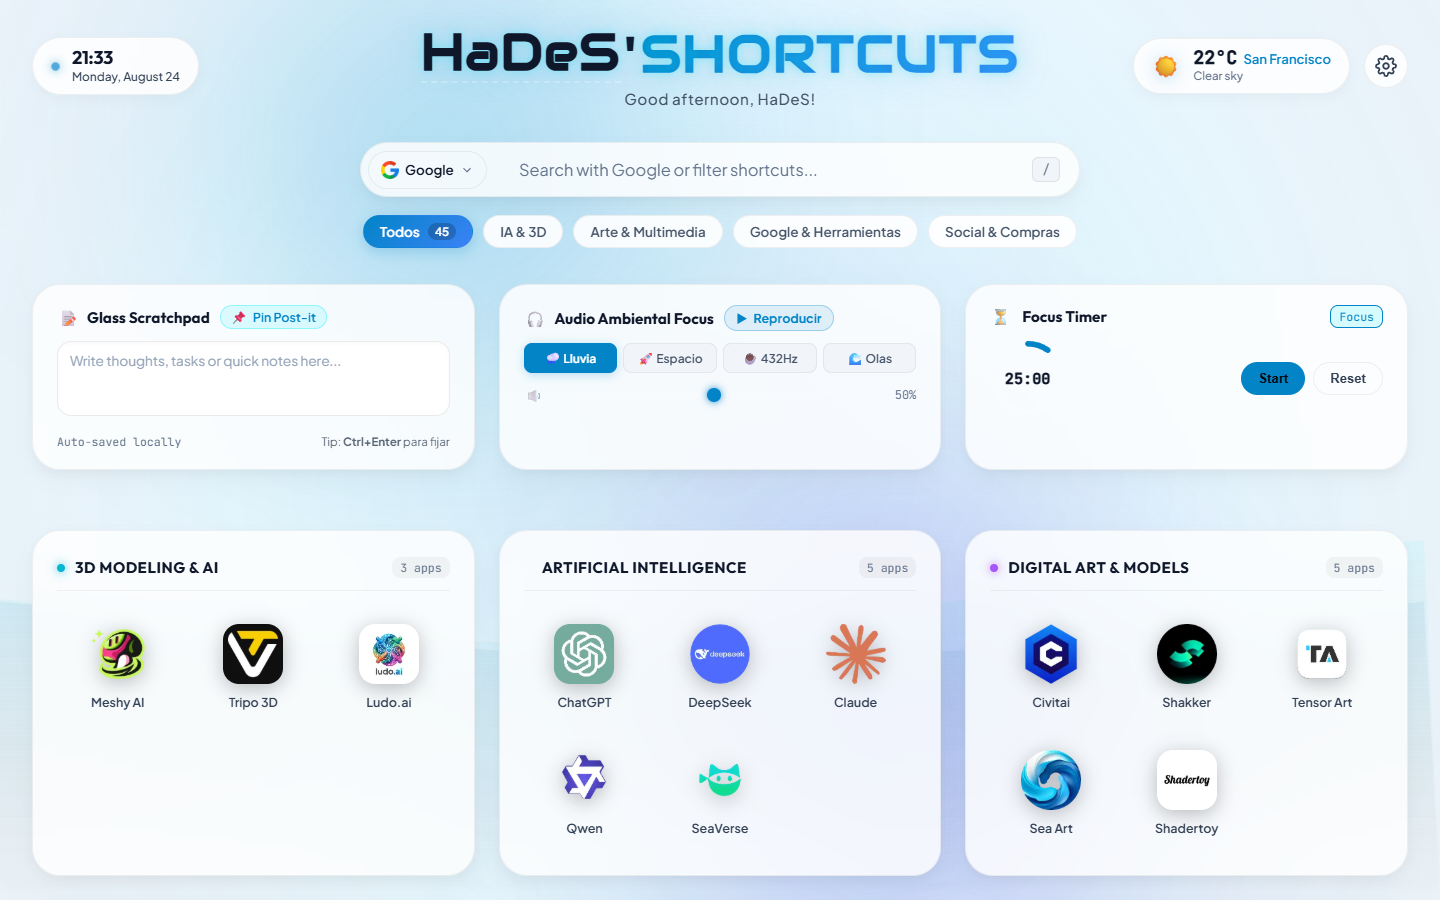
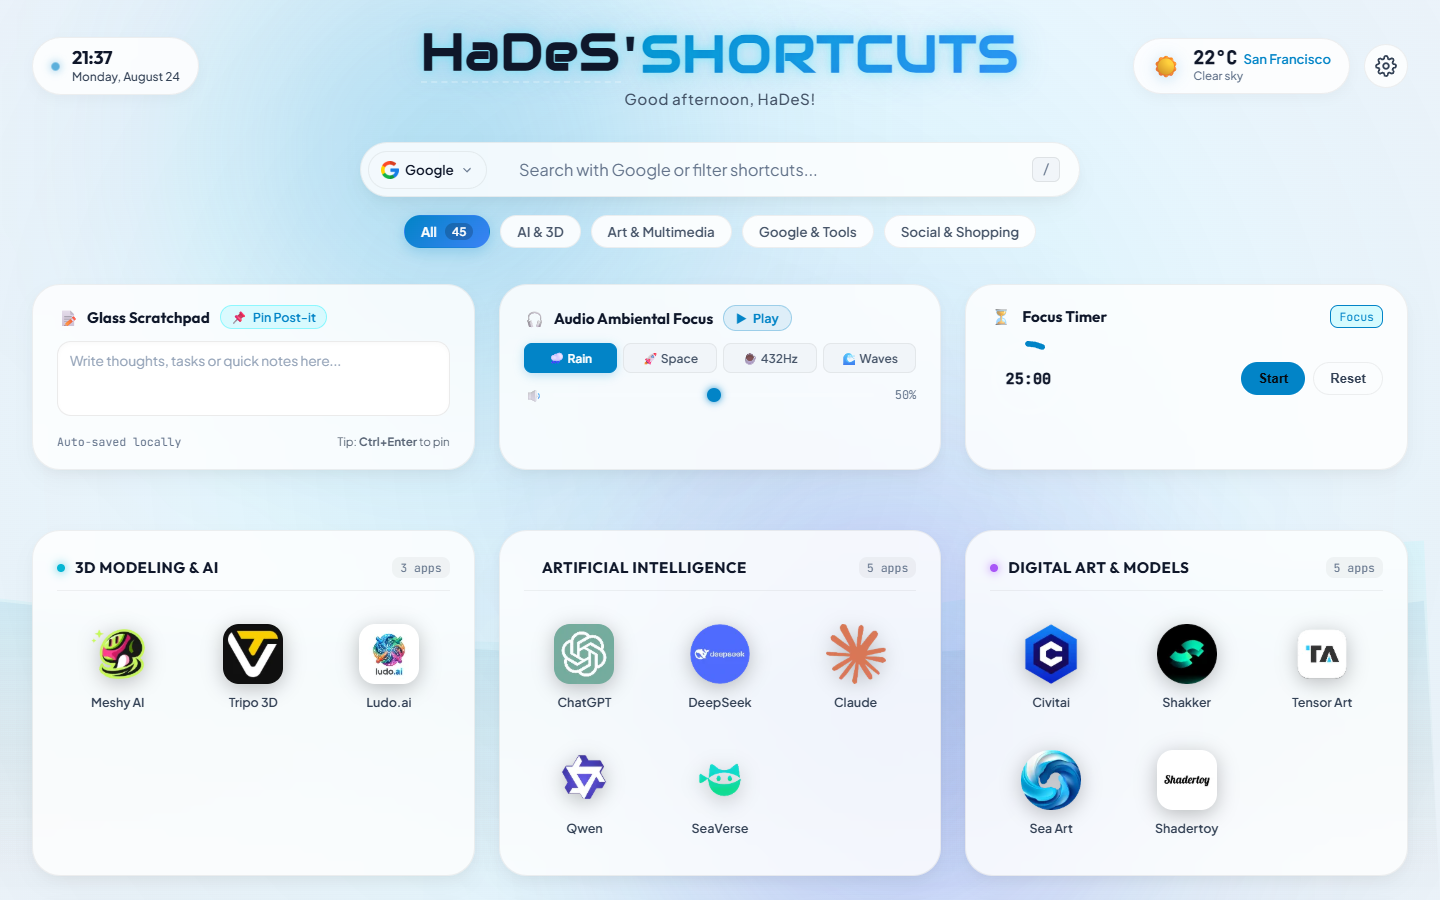
docs(media): regenerate qr modal screenshot with rendered neon qr canvas, sanitize weather to san francisco, and rebuild demo.gif

diff --git a/index.html b/index.html
@@ -136,11 +136,11 @@
 
             <!-- Quick Filter Tags / Pills -->
             <div class="filter-pills-container" id="filter-pills">
-                <button class="pill-btn active" data-filter="all">Todos <span class="pill-count">45</span></button>
-                <button class="pill-btn" data-filter="ia-creativa">IA & 3D</button>
-                <button class="pill-btn" data-filter="arte-media">Arte & Multimedia</button>
-                <button class="pill-btn" data-filter="productividad">Google & Herramientas</button>
-                <button class="pill-btn" data-filter="social-compras">Social & Compras</button>
+                <button class="pill-btn active" data-filter="all"><span data-i18n="filters.all">Todos</span> <span class="pill-count">45</span></button>
+                <button class="pill-btn" data-filter="ia-creativa" data-i18n="filters.ia_creativa">IA & 3D</button>
+                <button class="pill-btn" data-filter="arte-media" data-i18n="filters.arte_media">Arte & Multimedia</button>
+                <button class="pill-btn" data-filter="productividad" data-i18n="filters.productividad">Google & Herramientas</button>
+                <button class="pill-btn" data-filter="social-compras" data-i18n="filters.social_compras">Social & Compras</button>
             </div>
                         <!-- Search Calc & Bang Banner -->
                 <div class="search-calc-banner hidden" id="search-calc-banner"></div>
